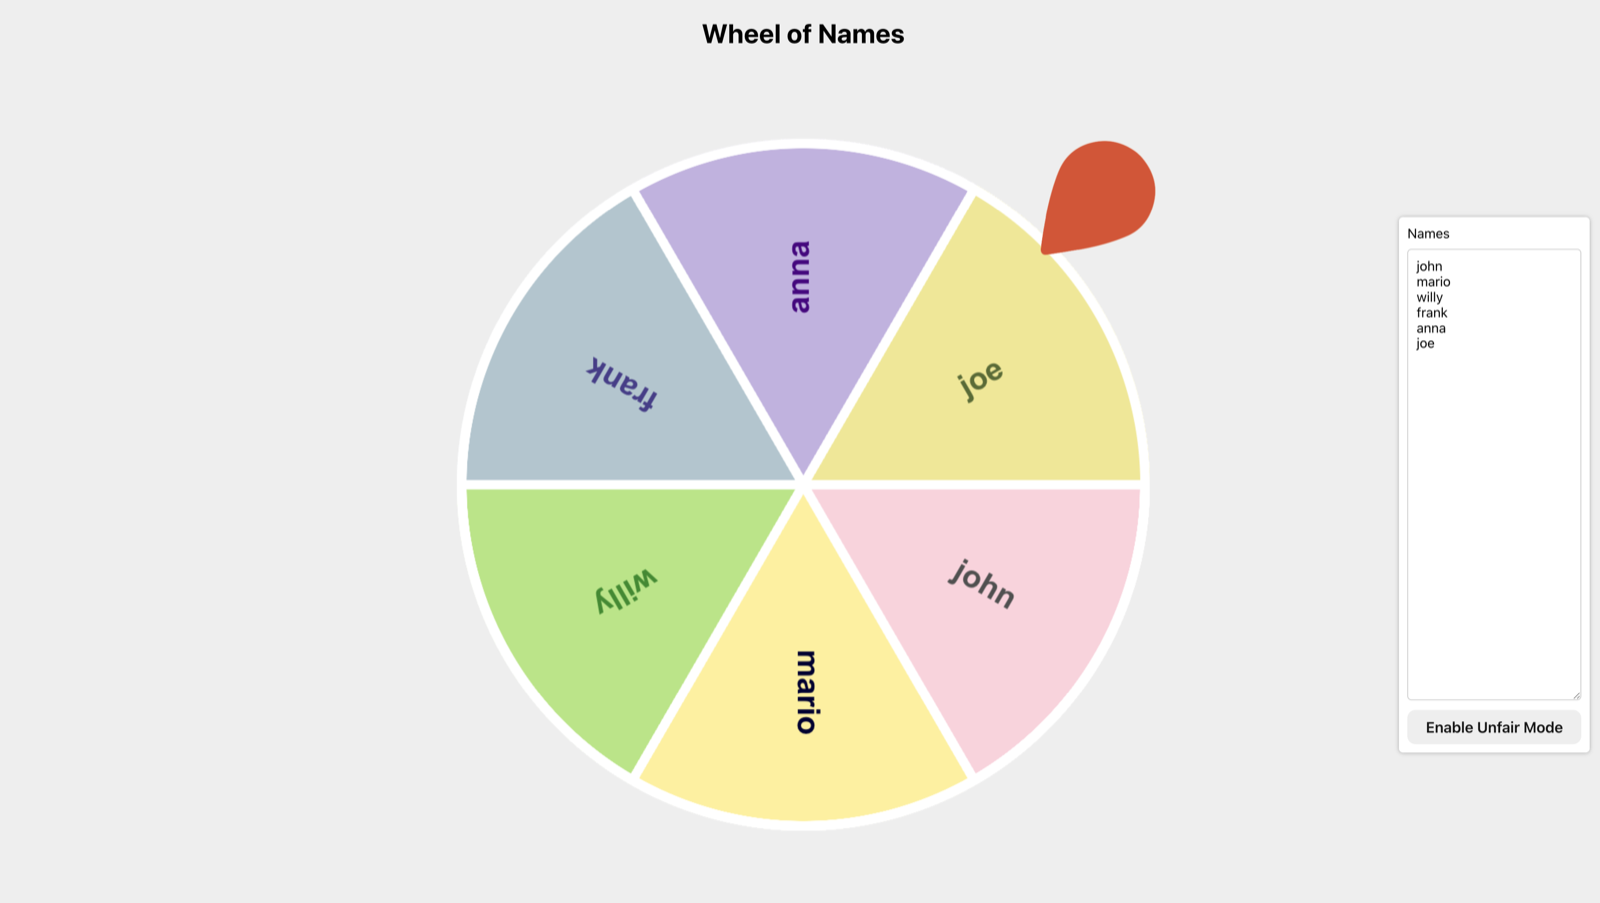
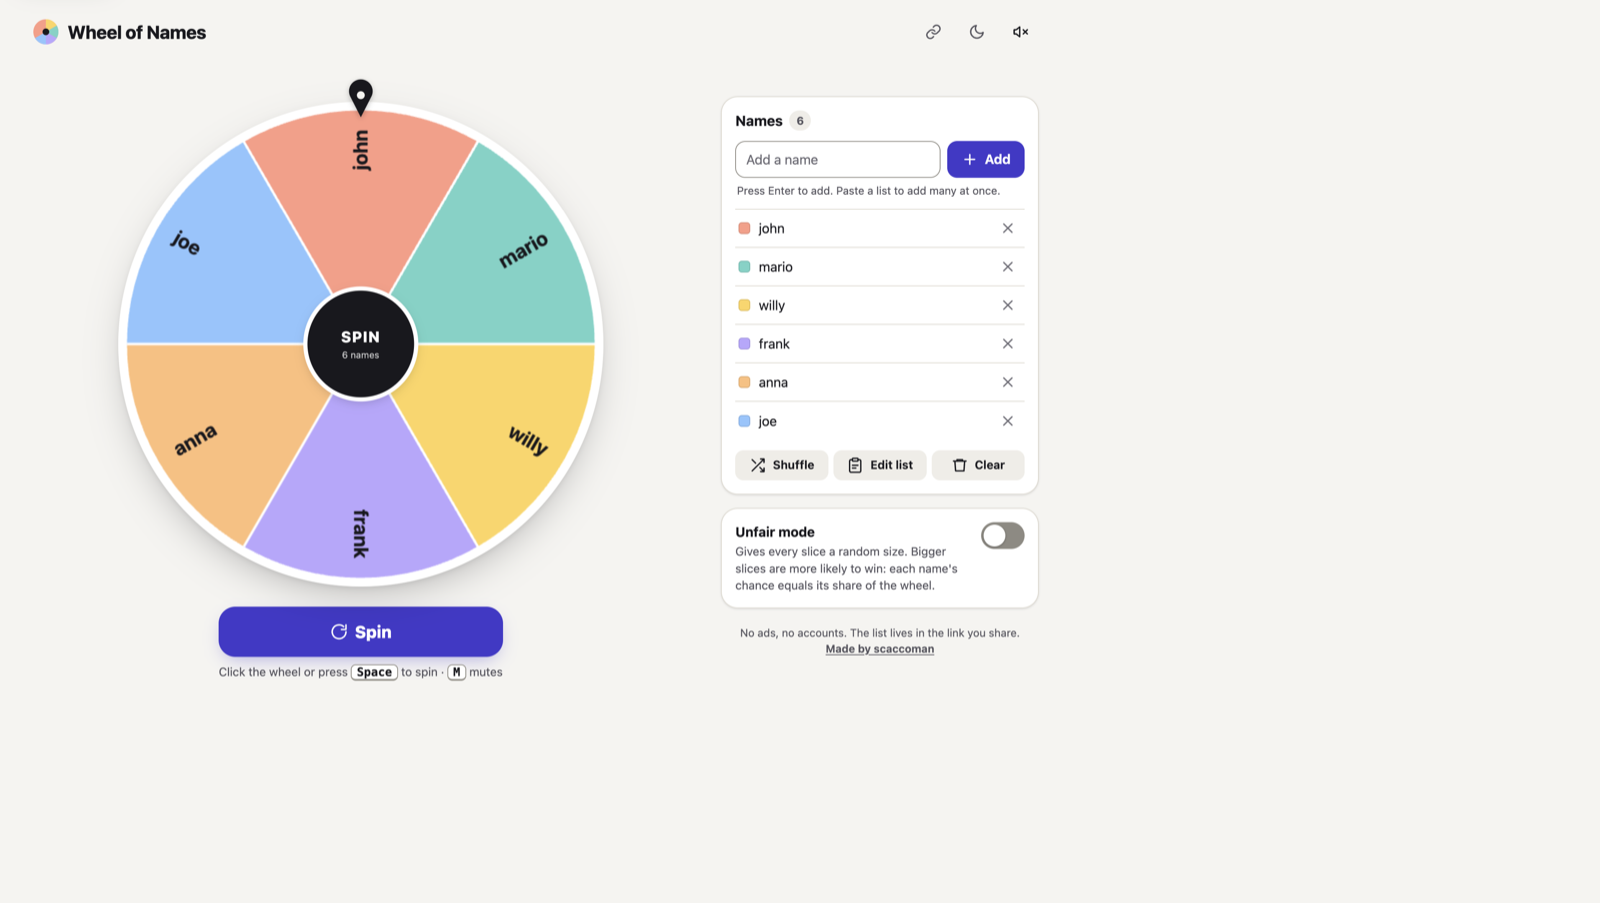
docs: show the current wheel in the readme
The preview still used the old layout, and the feature list left out how the shared link works.

diff --git a/README.md b/README.md
@@ -8,12 +8,13 @@ A static wheel for picking the next name. No ads, no accounts, and the list is s
 
 ## Features
 
-- Spin from the wheel, the Spin button, or the Space bar. Skip with the button or Escape.
-- The winner is announced as typed. Copy message keeps the host note and the link for the next round.
-- Add, remove, shuffle, or edit the names. The address bar updates as you go.
-- Unfair mode gives every name a random slice. Bigger slices are more likely to win.
-- Light and dark themes, and a mute button. M mutes, except while typing.
-- Works on phones and wide screens.
+- The list lives in the link (`?names=`), so a shared URL opens the same wheel.
+- Spin from the wheel, the Spin button, or Space. Skip with the button or Escape.
+- The winner is announced as typed. Copy the host message, or remove that name and spin again.
+- Add one name, paste many, then remove, shuffle, or edit the list. The address bar updates as you go.
+- Unfair mode gives every name a random slice. Bigger slices are more likely to win, and that setting is saved in the link.
+- Light and dark themes. Sound is on until you mute it. M mutes, except while typing.
+- The wheel fills a wide window. On a phone, the page scrolls with the names.
 
 ## Local development
 
